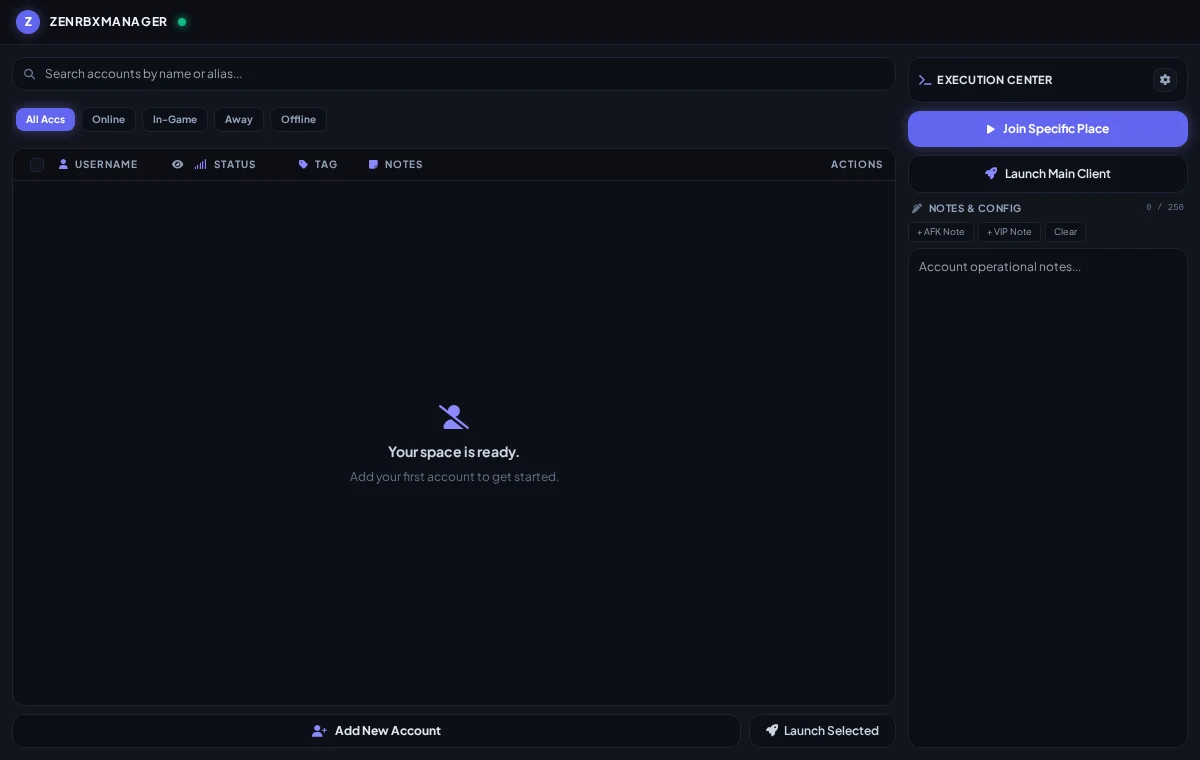
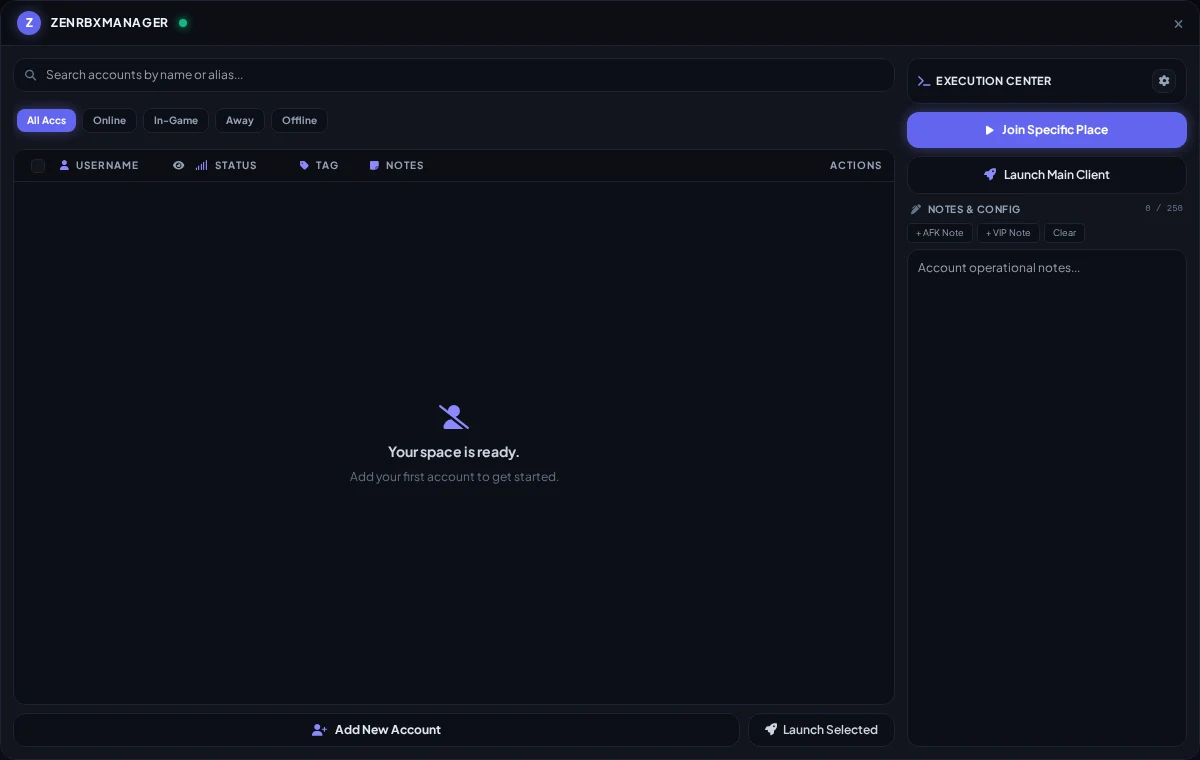
Restore original custom header and rounded desktop border

diff --git a/web/index.html b/web/index.html
@@ -86,7 +86,15 @@
 <style>
   /* Original supplied interface, fitted to the desktop WebView2 client area. */
   html, body {width:100vw;height:100vh;margin:0;padding:0;overflow:hidden;background:#090a0f !important;background-image:none !important;}
-  #widget {width:100%;height:100%;min-height:0;margin:0;border:0;border-radius:0;box-shadow:none;}
+  #widget {width:100%;height:100%;min-height:0;margin:0;background:#12151e;
+    border:1px solid #1d2331;border-radius:16px;box-shadow:0 25px 50px -12px rgb(var(--th-500) / .15);}
+  /* Let the real frameless WebView2 window expose the rounded corners. */
+  html.desktop-host, html.desktop-host body {background:transparent !important;}
+  #windowResizeGrip {display:none;position:absolute;right:1px;bottom:1px;width:20px;height:20px;
+    z-index:40;cursor:nwse-resize;touch-action:none;border-bottom-right-radius:15px;}
+  html.desktop-host #windowResizeGrip {display:block;}
+  #windowResizeGrip::after {content:'';position:absolute;right:6px;bottom:6px;width:6px;height:6px;
+    border-right:1px solid #64748b;border-bottom:1px solid #64748b;}
   #widget > .header {width:100%;}
   @media (max-width:780px){
     .workspace{flex-direction:column;overflow-y:auto !important;}
@@ -104,17 +112,21 @@
 </head>
 <body class="text-slate-200 font-sans select-none bg-transparent overflow-hidden">
 
-    <!-- Full-viewport desktop workspace; OS/browser provides real window controls. -->
-    <div id="widget" class="widget-container w-full h-full rounded-none border-none flex flex-col overflow-hidden">
+    <!-- The original rounded widget is the desktop window itself, not a floating card. -->
+    <div id="widget" class="widget-container relative flex flex-col overflow-hidden">
 
-        <!-- Application header, not a simulated browser/title bar. -->
-        <header class="header px-4 py-2.5 bg-[#0c0e14] border-b border-borderSubtle flex items-center shrink-0">
-            <div class="brand-area flex items-center space-x-2.5">
-                <div class="w-6 h-6 rounded-full bg-th-500 flex items-center justify-center shadow-th-glow">
+        <!-- Original custom header: the blank area drags the frameless OS window. -->
+        <header class="header pywebview-drag-region px-4 py-2.5 bg-[#0c0e14] border-b border-borderSubtle flex items-center justify-between shrink-0 cursor-move">
+            <div class="brand-area flex items-center space-x-2.5 z-10">
+                <div class="w-6 h-6 rounded-full bg-th-500 flex items-center justify-center shadow-th-glow transition-colors duration-300">
                     <span class="text-white font-black text-xs">Z</span>
                 </div>
                 <h1 class="title font-bold text-xs tracking-wider text-slate-100 uppercase">ZENRBXMANAGER</h1>
                 <span class="w-2 h-2 rounded-full bg-emerald-500 shadow-[0_0_8px_#10b981]" aria-label="App running" title="App running"></span>
+            </div>
+            <div class="window-controls flex items-center space-x-3 text-slate-500 z-10">
+                <button type="button" onclick="desktopWindow('minimize')" aria-label="Minimize window" title="Minimize window" class="hover:text-slate-200 hover:scale-110"><i class="fa-solid fa-minus text-[11px]" aria-hidden="true"></i></button>
+                <button type="button" onclick="desktopWindow('close')" aria-label="Close application" title="Close application" class="hover:text-rose-400 hover:scale-110"><i class="fa-solid fa-xmark text-xs" aria-hidden="true"></i></button>
             </div>
         </header>
 
@@ -225,6 +237,7 @@
 
             </aside>
         </main>
+        <div id="windowResizeGrip" title="Drag to resize window" aria-hidden="true"></div>
     </div>
 
     <!-- MODAL: ADD ACCOUNT -->
@@ -397,6 +410,53 @@
 /* ZenRbxManager: real account state, no prototype demo records. */
 'use strict';
 const $ = id => document.getElementById(id);
+// Only pywebview's desktop bridge may control the real OS window. In a static
+// browser preview the original header remains visual, but the buttons do not
+// pretend to minimize/close the browser tab.
+function desktopWindow(action) {
+  const bridge = window.pywebview?.api;
+  if (!bridge || !['minimize', 'close'].includes(action)) return;
+  bridge[action]().catch(() => toast('Window action unavailable.', true));
+}
+function initializeDesktopChrome() {
+  if (!window.pywebview?.api) return;
+  document.documentElement.classList.add('desktop-host');
+}
+window.addEventListener('pywebviewready', initializeDesktopChrome);
+initializeDesktopChrome();
+const resizeGrip = $('windowResizeGrip');
+resizeGrip.addEventListener('pointerdown', event => {
+  if (event.button !== 0 || !window.pywebview?.api) return;
+  event.preventDefault();
+  resizeGrip.setPointerCapture(event.pointerId);
+  const startX = event.screenX, startY = event.screenY;
+  const startWidth = window.innerWidth, startHeight = window.innerHeight;
+  let updating = false, pending = null;
+  async function applySize() {
+    if (updating || !pending) return;
+    updating = true;
+    const [width, height] = pending;
+    pending = null;
+    try { await window.pywebview.api.resize(width, height); }
+    catch { /* The grip stays optional if window sizing is unavailable. */ }
+    updating = false;
+    if (pending) applySize();
+  }
+  const move = e => {
+    pending = [Math.max(900, startWidth + e.screenX - startX),
+               Math.max(600, startHeight + e.screenY - startY)];
+    applySize();
+  };
+  const stop = () => {
+    resizeGrip.removeEventListener('pointermove', move);
+    resizeGrip.removeEventListener('pointerup', stop);
+    resizeGrip.removeEventListener('pointercancel', stop);
+    if (resizeGrip.hasPointerCapture(event.pointerId)) resizeGrip.releasePointerCapture(event.pointerId);
+  };
+  resizeGrip.addEventListener('pointermove', move);
+  resizeGrip.addEventListener('pointerup', stop);
+  resizeGrip.addEventListener('pointercancel', stop);
+});
 let appState = {accounts:[], settings:{}};
 let selectedName = null, editName = null, hiddenNames = false, filter = 'all', noteTimer = null, toastTimer = null, dragged = null;
 const palette = {

diff --git a/web/assets/app.js b/web/assets/app.js
@@ -1,6 +1,53 @@
 /* ZenRbxManager: real account state, no prototype demo records. */
 'use strict';
 const $ = id => document.getElementById(id);
+// Only pywebview's desktop bridge may control the real OS window. In a static
+// browser preview the original header remains visual, but the buttons do not
+// pretend to minimize/close the browser tab.
+function desktopWindow(action) {
+  const bridge = window.pywebview?.api;
+  if (!bridge || !['minimize', 'close'].includes(action)) return;
+  bridge[action]().catch(() => toast('Window action unavailable.', true));
+}
+function initializeDesktopChrome() {
+  if (!window.pywebview?.api) return;
+  document.documentElement.classList.add('desktop-host');
+}
+window.addEventListener('pywebviewready', initializeDesktopChrome);
+initializeDesktopChrome();
+const resizeGrip = $('windowResizeGrip');
+resizeGrip.addEventListener('pointerdown', event => {
+  if (event.button !== 0 || !window.pywebview?.api) return;
+  event.preventDefault();
+  resizeGrip.setPointerCapture(event.pointerId);
+  const startX = event.screenX, startY = event.screenY;
+  const startWidth = window.innerWidth, startHeight = window.innerHeight;
+  let updating = false, pending = null;
+  async function applySize() {
+    if (updating || !pending) return;
+    updating = true;
+    const [width, height] = pending;
+    pending = null;
+    try { await window.pywebview.api.resize(width, height); }
+    catch { /* The grip stays optional if window sizing is unavailable. */ }
+    updating = false;
+    if (pending) applySize();
+  }
+  const move = e => {
+    pending = [Math.max(900, startWidth + e.screenX - startX),
+               Math.max(600, startHeight + e.screenY - startY)];
+    applySize();
+  };
+  const stop = () => {
+    resizeGrip.removeEventListener('pointermove', move);
+    resizeGrip.removeEventListener('pointerup', stop);
+    resizeGrip.removeEventListener('pointercancel', stop);
+    if (resizeGrip.hasPointerCapture(event.pointerId)) resizeGrip.releasePointerCapture(event.pointerId);
+  };
+  resizeGrip.addEventListener('pointermove', move);
+  resizeGrip.addEventListener('pointerup', stop);
+  resizeGrip.addEventListener('pointercancel', stop);
+});
 let appState = {accounts:[], settings:{}};
 let selectedName = null, editName = null, hiddenNames = false, filter = 'all', noteTimer = null, toastTimer = null, dragged = null;
 const palette = {

diff --git a/src/main.py b/src/main.py
@@ -85,6 +85,36 @@ def make_server(backend, port=0):
     return ThreadingHTTPServer(('127.0.0.1', port), Handler)
 
 
+class DesktopWindowControls:
+    """Expose only native window actions to the original HTML header."""
+
+    def __init__(self):
+        self.window = None
+
+    def minimize(self):
+        self.window.minimize()
+
+    def close(self):
+        self.window.destroy()
+
+    def resize(self, width, height):
+        # The WinForms frameless window has no native resize frame. The small
+        # bottom-right grip restores resizing without showing an OS title bar.
+        width, height = int(width), int(height)
+        self.window.resize(max(900, min(width, 4096)), max(600, min(height, 2160)))
+
+
+def create_desktop_window(webview, url, *, smoke=False):
+    controls = DesktopWindowControls()
+    controls.window = webview.create_window(
+        'ZenRbxManager UI check' if smoke else 'ZenRbxManager',
+        url=url, width=1000 if smoke else 1180, height=650 if smoke else 760,
+        min_size=(900, 600), frameless=True, transparent=True,
+        easy_drag=False, background_color='#090a0f', js_api=controls,
+    )
+    return controls.window
+
+
 def run_self_test():
     """Exercise bundled UI + local API without Roblox, browser or saved accounts.
 
@@ -146,10 +176,7 @@ def run_ui_smoke_test():
         server = make_server(backend)
         worker = threading.Thread(target=server.serve_forever, daemon=True)
         worker.start()
-        window = webview.create_window('ZenRbxManager UI check',
-                                       url=f'http://127.0.0.1:{server.server_port}/',
-                                       width=1000, height=650, background_color='#090a0f',
-                                       easy_drag=False)
+        window = create_desktop_window(webview, f'http://127.0.0.1:{server.server_port}/', smoke=True)
         checks = []
 
         def inspect():
@@ -162,11 +189,23 @@ def run_ui_smoke_test():
                       title: document.querySelector('h1')?.textContent,
                       empty: !!document.getElementById('emptyStateNotice'),
                       root: !!document.getElementById('widget'),
-                      fakeControls: !!document.querySelector('.window-controls')
+                      controls: document.querySelectorAll('.window-controls button').length,
+                      border: getComputedStyle(document.getElementById('widget')).borderTopColor,
+                      rounded: getComputedStyle(document.getElementById('widget')).borderTopLeftRadius,
+                      bridge: !!window.pywebview?.api?.minimize && !!window.pywebview?.api?.close,
+                      transparent: document.documentElement.classList.contains('desktop-host')
                     }))()""")
                     if state and state.get('empty'):
                         assert state['title'] == 'ZENRBXMANAGER' and state['root']
-                        assert not state['fakeControls']
+                        assert state['controls'] == 2
+                        assert state['border'] == 'rgb(29, 35, 49)' and state['rounded'] == '16px'
+                        assert state['bridge'] and state['transparent']
+                        window.evaluate_js("document.querySelector('[aria-label=\"Minimize window\"]').click()")
+                        if not window.events.minimized.wait(8):
+                            raise RuntimeError('Original header did not minimize the native window.')
+                        window.restore()
+                        if not window.events.restored.wait(8):
+                            raise RuntimeError('Native window could not be restored.')
                         checks.append(True)
                         return
                     time.sleep(.25)
@@ -178,6 +217,7 @@ def run_ui_smoke_test():
 
         try:
             # No fallback to MSHTML or an external browser.
+            webview.settings['DRAG_REGION_DIRECT_TARGET_ONLY'] = True
             webview.start(inspect, gui='edgechromium', private_mode=True)
             if checks != [True]:
                 raise RuntimeError(f'WebView2 GUI smoke test failed: {checks!r}')
@@ -212,9 +252,9 @@ def main():
         worker.start()
         try:
             url = f'http://127.0.0.1:{server.server_port}/'
-            webview.create_window('ZenRbxManager', url=url, width=1180, height=760,
-                                  min_size=(900, 600), maximized=True, easy_drag=False,
-                                  background_color='#090a0f')
+            create_desktop_window(webview, url)
+            # Drag only the empty header area, never its working controls.
+            webview.settings['DRAG_REGION_DIRECT_TARGET_ONLY'] = True
             # No external browser shell. Fail rather than fall back to MSHTML/IE.
             webview.start(gui='edgechromium', private_mode=True)
         finally:

diff --git a/scripts/capture_ui.py b/scripts/capture_ui.py
@@ -1,4 +1,4 @@
-"""Capture the legacy HTML design reference, NOT the current native app.
+"""Capture the original HTML interface used inside the desktop WebView2 host.
 
 Requires Playwright Chromium. Mocks only the account API: no user data, cookies,
 Roblox traffic or external resources are used.
@@ -29,12 +29,15 @@ try:
         box = page.locator('#widget').bounding_box()
         assert box == {'x': 0, 'y': 0, 'width': 1200, 'height': 760}, box
         assert page.locator('h1').inner_text() == 'ZENRBXMANAGER'
-        assert page.locator('.window-controls').count() == 0
+        assert page.locator('.window-controls button').count() == 2
         assert page.evaluate("getComputedStyle(document.body).backgroundColor") == 'rgb(9, 10, 15)'
+        assert page.locator('#widget').evaluate('(el) => getComputedStyle(el).borderTopLeftRadius') == '16px'
+        assert page.locator('#widget').evaluate('(el) => getComputedStyle(el).borderTopColor') == 'rgb(29, 35, 49)'
         header = page.locator('#widget > header').bounding_box()
         workspace = page.locator('#widget > main').bounding_box()
-        assert header['x'] == 0 and header['y'] == 0 and header['width'] == 1200
-        assert workspace['y'] == header['height'] and workspace['height'] + header['height'] == 760
+        assert header['x'] == 1 and header['y'] == 1 and header['width'] == 1198
+        assert workspace['y'] == header['y'] + header['height']
+        assert workspace['height'] + header['height'] + 2 == 760
         assert page.locator('.account-panel').is_visible() and page.locator('.execution-panel').is_visible()
         page.screenshot(path=str(ROOT / 'site/app-preview.webp'), type='webp', quality=88)
         page.locator('button[onclick="openSettingsModal()"]:visible').click()

diff --git a/tests/test_app.py b/tests/test_app.py
@@ -147,4 +147,26 @@ def test_desktop_host_forces_embedded_webview2():
     assert "webview.start(inspect, gui='edgechromium'" in source
     assert 'subprocess.Popen' not in source
     assert '--app=' not in source
+    assert 'frameless=True, transparent=True' in source
+    assert "DRAG_REGION_DIRECT_TARGET_ONLY'] = True" in source
+    assert 'class DesktopWindowControls:' in source
     assert "server = make_server(backend)" in source
+
+
+def test_native_window_controls_call_actual_host_methods():
+    from main import DesktopWindowControls
+
+    class FakeWindow:
+        def __init__(self):
+            self.calls = []
+
+        def minimize(self): self.calls.append('minimize')
+        def destroy(self): self.calls.append('close')
+        def resize(self, width, height): self.calls.append(('resize', width, height))
+
+    bridge = DesktopWindowControls()
+    bridge.window = FakeWindow()
+    bridge.minimize()
+    bridge.resize(100, 5000)
+    bridge.close()
+    assert bridge.window.calls == ['minimize', ('resize', 900, 2160), 'close']

diff --git a/scripts/make_banner.py b/scripts/make_banner.py
@@ -32,7 +32,7 @@ g.ellipse((720, -390, 1570, 460), fill=(115, 72, 247, 120))
 g.ellipse((-470, 180, 370, 1010), fill=(74, 66, 191, 75))
 base = Image.alpha_composite(base.convert('RGBA'), glow.filter(ImageFilter.GaussianBlur(130)))
 
-# The real UI, shown directly; no fake browser header, bevel, border, or window frame.
+# The real UI, shown directly; its header and border are part of the window, not a mock frame.
 shot = Image.open(ROOT / 'site/app-preview.webp').convert('RGBA')
 shot.thumbnail((740, 530), Image.Resampling.LANCZOS)
 base.alpha_composite(shot, (650, 136))

diff --git a/README.md b/README.md
@@ -25,13 +25,13 @@ An independent Windows account workspace for the Roblox accounts **you own**. Ke
 
 ## A better place for the accounts you actually use
 
-One account for one game, another for a different group, and a third you haven't touched in months. ZenRbxManager gives those accounts a home: a clean list, useful context, and launch controls in a **real Windows desktop window with the original HTML/CSS UI embedded edge to edge**. No separate Edge/Chrome app-mode window or fake outer frame.
+One account for one game, another for a different group, and a third you haven't touched in months. ZenRbxManager gives those accounts a home: a clean list, useful context, and launch controls in a **real frameless Windows desktop window with the original HTML/CSS UI filling it edge to edge**. The supplied header and rounded border are part of that window, not a floating web card. No separate Edge/Chrome app-mode window.
 
 <img src="site/readme-features.png" alt="Six ZenRbxManager features: account list, launching, notes, settings, local storage and honest presence" width="100%">
 
 ### See the workspace
 
-These are **real captures of the original HTML UI**, which the Windows desktop window renders through WebView2. They are not a populated demo account; Windows supplies the actual OS title bar. No credentials or account cookies appear in them.
+These are **real captures of the original HTML UI**, which the Windows desktop window renders through WebView2. They are not a populated demo account. The original header replaces the OS title bar, with working minimize/close buttons in the desktop app. No credentials or account cookies appear in them.
 
 <img src="site/app-preview.webp" alt="The full-viewport ZenRbxManager workspace with account list, filters and launch controls" width="100%">
 
@@ -72,7 +72,7 @@ This **per-user Inno Setup candidate** adds a Start Menu shortcut, offers an opt
 
 ## The original UI, inside a desktop window
 
-The current candidate uses your **original HTML/CSS interface** in an embedded **Microsoft Edge WebView2** control hosted by a Windows desktop window. It is a web renderer **inside** the app, not a separate browser tab or an `--app` Edge/Chrome window. The interface fills its client area, while Windows supplies the real title bar. A token-protected loopback API connects it to the existing Python backend. **WebView2 Runtime must be installed** (separate from the Edge browser); if missing, install Microsoft's Evergreen WebView2 Runtime. Roblox's optional website sign-in may open a separate browser. The runtime, Roblox, optional WebDriver and saved data are outside the executable size limit. The published `v0.1.0-preview` still uses the older external-browser-shell launcher.
+The current candidate uses your **original HTML/CSS interface** in an embedded **Microsoft Edge WebView2** control hosted by a Windows desktop window. It is a web renderer **inside** the app, not a separate browser tab or an `--app` Edge/Chrome window. The interface fills a frameless window; its original header, working minimize/close buttons and rounded border replace the OS title bar. A subtle corner grip allows resizing. A token-protected loopback API connects it to the existing Python backend. **WebView2 Runtime must be installed** (separate from the Edge browser); if missing, install Microsoft's Evergreen WebView2 Runtime. Roblox's optional website sign-in may open a separate browser. The runtime, Roblox, optional WebDriver and saved data are outside the executable size limit. The published `v0.1.0-preview` still uses the older external-browser-shell launcher.
 
 | What matters | How it works |
 |:--|:--|

diff --git a/TEST_ON_WINDOWS.md b/TEST_ON_WINDOWS.md
@@ -11,7 +11,7 @@ The setup candidate from [Windows app / size check](https://github.com/sitezu/Ze
 ## Run through the app
 
 - [ ] Install using the wizard without requiring administrator permissions. Confirm the Start Menu shortcut opens the app.
-- [ ] Confirm that a Windows desktop window containing the **original HTML UI via embedded WebView2** opens, not a separate Edge/Chrome app-mode window. `ZENRBXMANAGER` should head the edge-to-edge workspace—no simulated browser header, fake close buttons, outer mock border, or grid desktop. Resize the window and confirm the account list and execution panel remain usable.
+- [ ] Confirm that a Windows desktop window containing the **original HTML UI via embedded WebView2** opens, not a separate Edge/Chrome app-mode window. The **original custom `ZENRBXMANAGER` header** and thin rounded border should surround the full window (not a floating card or grid desktop). Drag the empty header area to move the window, use its minimize and close buttons, then reopen it. Resize with the subtle lower-right grip and confirm the account list and execution panel remain usable.
 - [ ] Confirm an empty account list appears on a new installation, with no sample accounts.
 - [ ] Add an account you own through the optional browser sign-in flow (only login may open a separate browser; the manager must stay in its desktop window). If it fails, note the error **without including any cookie or password**. If you choose to test cookie import, use your own cookie and keep it private.
 - [ ] Restart the app. Confirm the account still appears, and that search, status filtering, name privacy and selecting work.

diff --git a/RELEASE_NOTES.md b/RELEASE_NOTES.md
@@ -1,6 +1,6 @@
 ## ZenRbxManager — original-UI desktop candidate (not released)
 
-The current `main` branch replaces the earlier Edge/Chrome app-mode shell with a **desktop window with the original HTML/CSS UI embedded in Microsoft WebView2**. It preserves the dark two-column account layout, filters, notes, launches, themes, and settings, with the Python backend behind a token-protected local API. The app no longer opens a separate Edge/Chrome `--app` window. Roblox browser sign-in is a separate, optional flow.
+The current `main` branch replaces the earlier Edge/Chrome app-mode shell with a **desktop window with the original HTML/CSS UI embedded in Microsoft WebView2**. It preserves the dark two-column account layout, filters, notes, launches, themes, and settings, with the Python backend behind a token-protected local API. The app no longer opens a separate Edge/Chrome `--app` window. Roblox browser sign-in is a separate, optional flow. The original custom header now replaces the OS title bar: its minimize/close controls operate the native window, and the original thin rounded border surrounds the edge-to-edge workspace. A corner grip allows resizing.
 
 ### Before any new release
 
